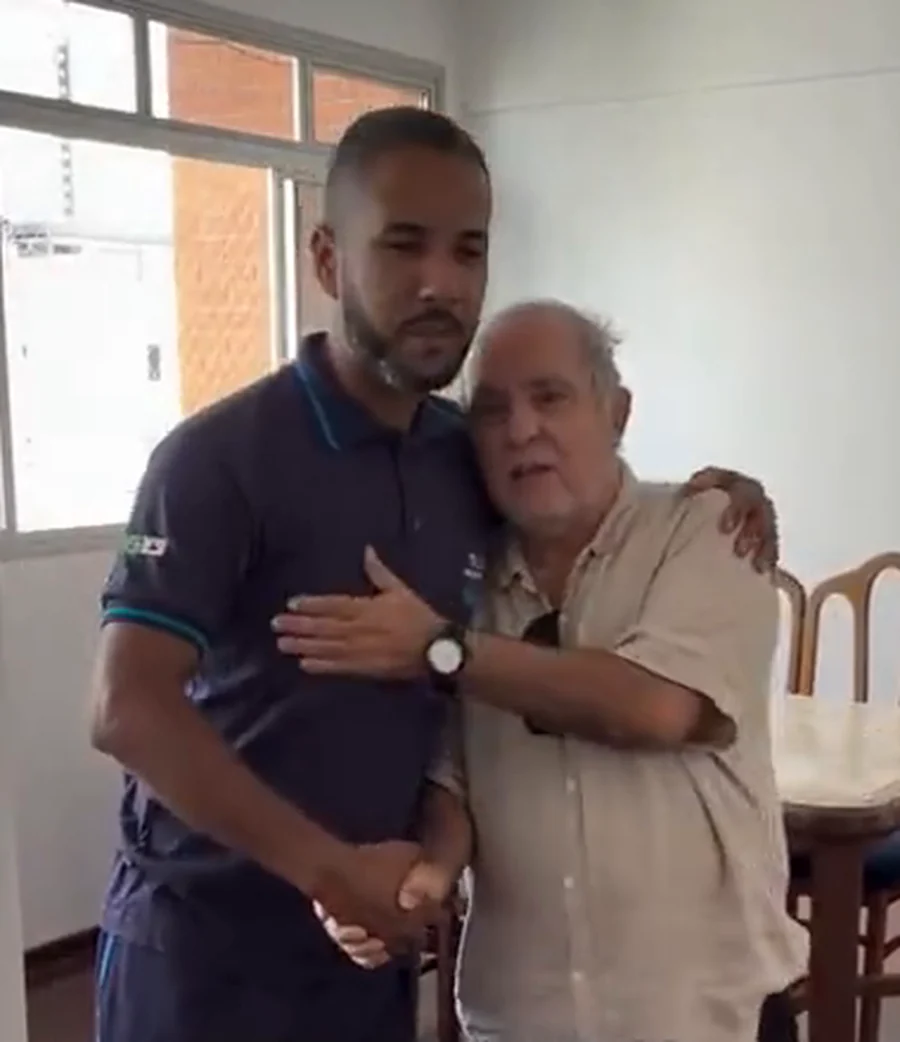
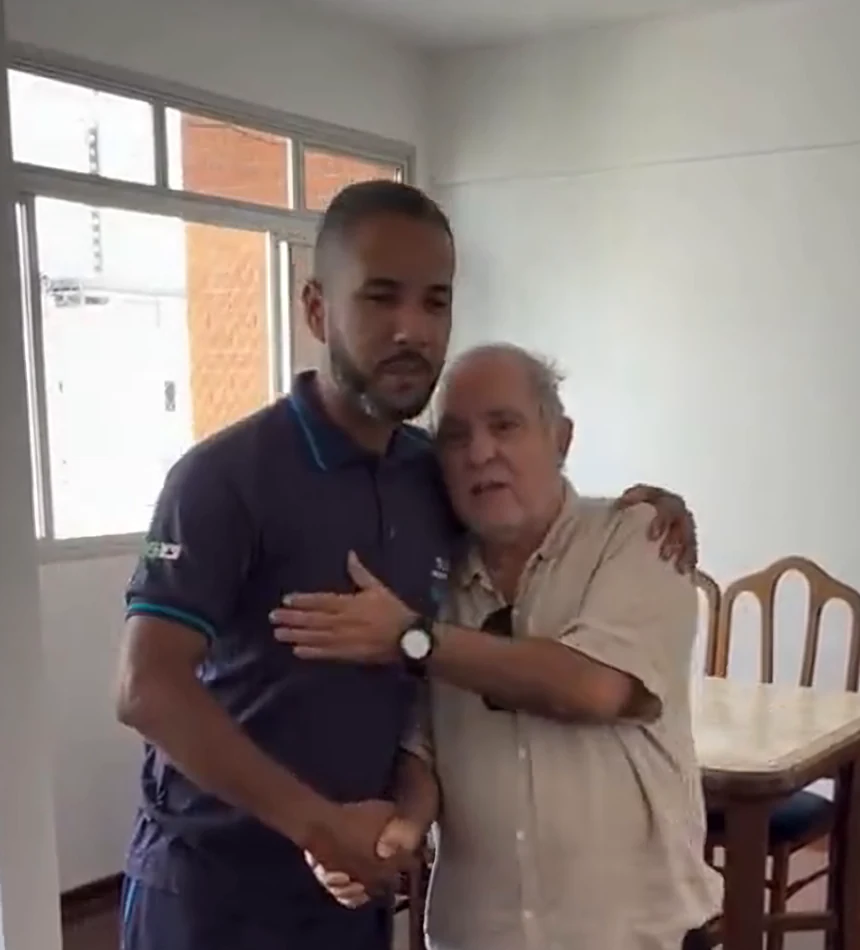
Abertura imersiva sem foto: rota animada da casa ao novo endereço; imagem do abraço com mais nitidez
Claude-Session: https://claude.ai/code/session_017aaQY9d7QqYMX1x6w3RXRQ

diff --git a/site/index.html b/site/index.html
@@ -66,19 +66,49 @@
 <main id="conteudo">
 
 <!-- ABERTURA -->
-<section class="hero" aria-labelledby="hero-t">
-  <div class="wrap hero-grid">
-    <div class="hero-copy">
-      <p class="eyebrow">Mudanças em Belo Horizonte e região</p>
-      <h1 id="hero-t">É a sua casa que vai <em>nesse caminhão.</em></h1>
-      <p class="hero-lead">Embalamos peça por peça, levamos com frota própria e entregamos no seu novo endereço.</p>
-      <div class="hero-cta">
-        <a class="btn btn-lg" href="#orcamento">Pedir orçamento<svg class="ic"><use href="#i-arrow"/></svg></a>
-        <a class="btn btn-lg ghost" href="#historia">Ver uma história real</a>
-      </div>
-    </div>
-    <div class="hero-frame">
-      <img class="hero-still" src="media/v3/abertura-final.webp" alt="Caminhão da Diego Mudanças estacionado na rua, com a rota azul até um novo endereço" width="810" height="1080" fetchpriority="high">
+<section class="hero2" aria-labelledby="hero-t">
+  <div class="h2-sky" aria-hidden="true"></div>
+  <div class="h2-floor" aria-hidden="true"></div>
+  <!-- rota: desktop -->
+  <svg class="h2-route h2-desk" viewBox="0 0 1440 900" preserveAspectRatio="xMidYMid slice" aria-hidden="true">
+    <defs>
+      <path id="rD" d="M 70 790 C 380 800 640 770 900 760 C 1110 752 1150 600 1250 470 C 1300 405 1350 350 1390 320" pathLength="1" />
+      <path id="rD0" d="M 70 790 C 380 800 640 770 900 760 C 1110 752 1150 600 1250 470 C 1300 405 1350 350 1390 320" />
+      <filter id="glowD" x="-20%" y="-20%" width="140%" height="140%"><feGaussianBlur stdDeviation="9" /></filter>
+    </defs>
+    <use href="#rD0" class="r-dots" />
+    <use href="#rD" class="r-glow" filter="url(#glowD)" />
+    <use href="#rD" class="r-w" /><use href="#rD" class="r-c" /><use href="#rD" class="r-b" />
+    <g class="r-start" transform="translate(70 790)"><circle r="34" class="halo" /><circle r="16" class="dot" /><path d="M-9 2 L0 -7 L9 2 M-6 0 V8 H6 V0" class="ico" /></g>
+    <g class="r-end" transform="translate(1390 320)"><circle r="60" class="halo big" /><path d="M0 0 C0 0 -30 -34 -30 -56 A30 30 0 1 1 30 -56 C30 -34 0 0 0 0 Z" class="pin" /><path d="M-11 -54 L0 -64 L11 -54 M-8 -56 V-44 H8 V-56" class="ico" /></g>
+    <g class="r-truck"><g transform="translate(-26 -20)"><rect x="0" y="4" width="34" height="24" rx="4" class="tb" /><path d="M34 12 H44 L52 20 V28 H34 Z" class="tc" /><circle cx="10" cy="30" r="5" class="tw" /><circle cx="42" cy="30" r="5" class="tw" /></g>
+      <animateMotion dur="7s" begin="2.2s" repeatCount="indefinite" rotate="auto" keyPoints="0;1;1" keyTimes="0;0.72;1" calcMode="linear"><mpath href="#rD0" /></animateMotion></g>
+  </svg>
+  <!-- rota: celular -->
+  <svg class="h2-route h2-mob" viewBox="0 0 390 844" preserveAspectRatio="xMidYMin slice" aria-hidden="true">
+    <defs>
+      <path id="rM" d="M 26 176 C 110 180 116 128 196 120 C 272 112 300 98 300 80 C 300 64 312 54 330 52" pathLength="1" />
+      <path id="rM0" d="M 26 176 C 110 180 116 128 196 120 C 272 112 300 98 300 80 C 300 64 312 54 330 52" />
+      <filter id="glowM" x="-20%" y="-20%" width="140%" height="140%"><feGaussianBlur stdDeviation="5" /></filter>
+    </defs>
+    <use href="#rM0" class="r-dots" />
+    <use href="#rM" class="r-glow" filter="url(#glowM)" />
+    <use href="#rM" class="r-w" /><use href="#rM" class="r-c" /><use href="#rM" class="r-b" />
+    <g class="r-start" transform="translate(26 176)"><circle r="22" class="halo" /><circle r="11" class="dot" /><path d="M-6 1 L0 -5 L6 1 M-4 0 V5 H4 V0" class="ico" /></g>
+    <g class="r-end" transform="translate(330 52)"><circle r="40" class="halo big" /><path d="M0 0 C0 0 -20 -23 -20 -38 A20 20 0 1 1 20 -38 C20 -23 0 0 0 0 Z" class="pin" /><path d="M-7 -37 L0 -44 L7 -37 M-5 -38 V-30 H5 V-38" class="ico" /></g>
+    <g class="r-truck"><g transform="translate(-18 -14) scale(.7)"><rect x="0" y="4" width="34" height="24" rx="4" class="tb" /><path d="M34 12 H44 L52 20 V28 H34 Z" class="tc" /><circle cx="10" cy="30" r="5" class="tw" /><circle cx="42" cy="30" r="5" class="tw" /></g>
+      <animateMotion dur="7s" begin="2.2s" repeatCount="indefinite" rotate="auto" keyPoints="0;1;1" keyTimes="0;0.72;1" calcMode="linear"><mpath href="#rM0" /></animateMotion></g>
+  </svg>
+  <svg class="h2-waves" viewBox="0 0 1440 160" preserveAspectRatio="none" aria-hidden="true">
+    <path d="M0 80C320 20 640 120 1000 70S1320 20 1440 50V160H0Z" fill="#fff" opacity=".95"/><path d="M0 102C330 50 650 140 1020 94S1320 54 1440 78V160H0Z" fill="#22C7F5"/><path d="M0 122C340 86 670 156 1040 118S1330 90 1440 104V160H0Z" fill="#1446E0"/><path d="M0 140C350 116 690 160 1060 140S1340 124 1440 130V160H0Z" fill="#020A22"/>
+  </svg>
+  <div class="wrap h2-copy">
+    <p class="eyebrow">Mudanças em Belo Horizonte e região</p>
+    <h1 id="hero-t">É a sua casa que vai <em>nesse caminhão.</em></h1>
+    <p class="h2-lead">Embalamos peça por peça, levamos com frota própria e entregamos no seu novo endereço.</p>
+    <div class="hero-cta">
+      <a class="btn btn-lg" href="#orcamento">Pedir orçamento<svg class="ic"><use href="#i-arrow"/></svg></a>
+      <a class="btn btn-lg ghost" href="#historia">Ver uma história real</a>
     </div>
   </div>
 </section>

diff --git a/site/style.css b/site/style.css
@@ -406,3 +406,49 @@ h1{font-size:clamp(44px,6.6vw,96px);max-width:820px;margin-bottom:26px}
 /* abertura sem vídeo: foto fixa */
 .hero-frame{background:#0B1B3F url(media/v3/abertura-final.webp) center/cover}
 .hero-still{display:block!important}
+
+/* ===== abertura imersiva, sem foto ===== */
+.hero2{position:relative;min-height:100svh;display:flex;align-items:center;overflow:hidden;isolation:isolate;padding:110px 0 150px;background:#020A22}
+.h2-sky{position:absolute;inset:0;z-index:-3;background:
+  radial-gradient(60% 55% at 78% 30%,rgba(34,199,245,.28),transparent 60%),
+  radial-gradient(70% 70% at 20% 85%,rgba(20,70,224,.55),transparent 65%),
+  radial-gradient(120% 90% at 60% 40%,#0B2D8F 0%,#06205F 35%,#041545 60%,#020A22 100%)}
+.h2-sky::after{content:"";position:absolute;inset:0;background-image:radial-gradient(rgba(155,235,255,.55) 1px,transparent 1.5px);background-size:46px 46px;opacity:.16;mask-image:radial-gradient(70% 60% at 60% 40%,#000,transparent 80%);-webkit-mask-image:radial-gradient(70% 60% at 60% 40%,#000,transparent 80%)}
+.h2-floor{position:absolute;left:-30%;right:-30%;bottom:-10%;height:60%;z-index:-2;transform:perspective(900px) rotateX(64deg);transform-origin:50% 100%;background-image:linear-gradient(rgba(155,235,255,.16) 2px,transparent 2px),linear-gradient(90deg,rgba(155,235,255,.16) 2px,transparent 2px);background-size:90px 90px;mask-image:linear-gradient(0deg,#000 10%,transparent 85%);-webkit-mask-image:linear-gradient(0deg,#000 10%,transparent 85%)}
+.h2-route{position:absolute;inset:0;width:100%;height:100%;z-index:-1;overflow:visible}
+.h2-mob{display:none}
+.r-dots{fill:none;stroke:rgba(155,235,255,.35);stroke-width:5;stroke-linecap:round;stroke-dasharray:1 22}
+.r-glow,.r-w,.r-c,.r-b{fill:none;stroke-linecap:round;stroke-dasharray:1;stroke-dashoffset:1;animation:draw 2.2s cubic-bezier(.65,0,.35,1) .25s forwards}
+.r-glow{stroke:#22C7F5;stroke-width:34;opacity:.55}
+.r-w{stroke:#fff;stroke-width:22}.r-c{stroke:#22C7F5;stroke-width:14}.r-b{stroke:#1446E0;stroke-width:5}
+.h2-mob .r-glow{stroke-width:20}.h2-mob .r-w{stroke-width:13}.h2-mob .r-c{stroke-width:8}.h2-mob .r-b{stroke-width:3}
+@keyframes draw{to{stroke-dashoffset:0}}
+.halo{fill:rgba(34,199,245,.18);stroke:rgba(155,235,255,.6);stroke-width:2;transform-box:fill-box;transform-origin:center;animation:pulse 2.6s ease-out infinite}
+.halo.big{animation-delay:1.3s}
+@keyframes pulse{0%{transform:scale(.6);opacity:1}100%{transform:scale(1.5);opacity:0}}
+.dot{fill:#1446E0;stroke:#fff;stroke-width:4}
+.pin{fill:#1446E0;stroke:#fff;stroke-width:5;filter:drop-shadow(0 10px 14px rgba(0,0,0,.45))}
+.ico{fill:none;stroke:#fff;stroke-width:2.6;stroke-linecap:round;stroke-linejoin:round}
+.r-end{opacity:0;animation:pop .6s cubic-bezier(.16,1,.3,1) 2.1s forwards}
+@keyframes pop{from{opacity:0}to{opacity:1}}
+.tb{fill:#fff}.tc{fill:#DCE6F5}.tw{fill:#0B1B3F;stroke:#9BEBFF;stroke-width:2}
+.r-truck{filter:drop-shadow(0 0 12px rgba(34,199,245,.9))}
+.h2-waves{position:absolute;left:0;right:0;bottom:-1px;width:100%;height:clamp(60px,7.5vw,110px);z-index:0}
+.h2-copy{position:relative;z-index:1}
+.hero2 h1{font-size:clamp(44px,6.4vw,100px);max-width:820px;margin-bottom:24px;text-shadow:0 10px 40px rgba(2,10,34,.6)}
+.hero2 .eyebrow{color:var(--ice)}
+.h2-lead{font-size:clamp(17px,1.9vw,21px);color:var(--soft);max-width:520px;margin-bottom:36px}
+@media (max-width:860px){
+  .hero2{align-items:flex-end;min-height:100svh;padding:0 0 calc(70px + 9vw)}
+  .h2-desk{display:none}.h2-mob{display:block;top:78px;height:auto;aspect-ratio:390/240;bottom:auto}
+  .h2-floor{height:45%}
+  .hero2 h1{font-size:clamp(34px,9.6vw,46px);margin-bottom:14px}
+  .hero2 .eyebrow{font-size:11px;letter-spacing:.2em;margin-bottom:12px}
+  .h2-copy{display:flex;flex-direction:column}
+  .h2-copy .hero-cta{order:3;margin-bottom:16px}.h2-lead{order:4;font-size:16px;margin-bottom:0}
+  .h2-copy .hero-cta .btn{flex:1 1 auto}.h2-copy .hero-cta .ghost{display:none}
+}
+@media (prefers-reduced-motion:reduce){
+  .r-glow,.r-w,.r-c,.r-b{animation:none;stroke-dashoffset:0}
+  .r-end{animation:none;opacity:1}.halo{animation:none}.r-truck{display:none}
+}
